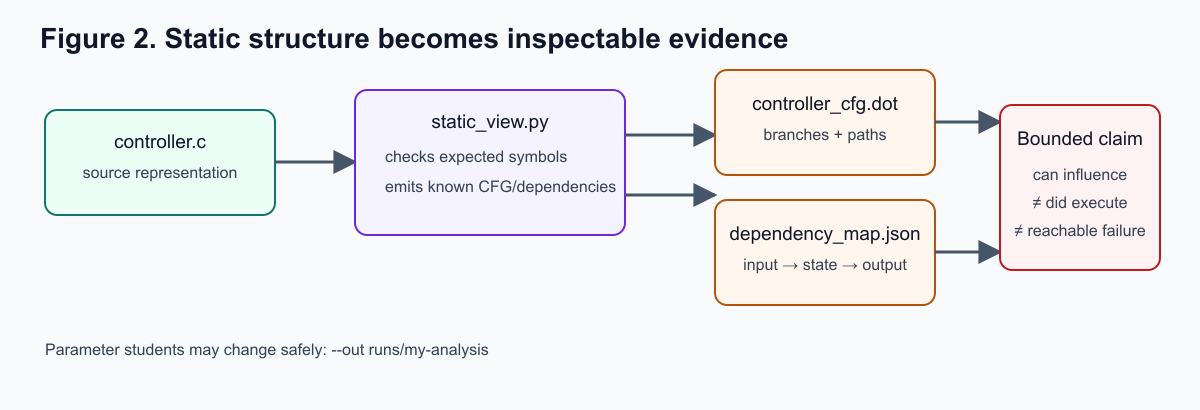
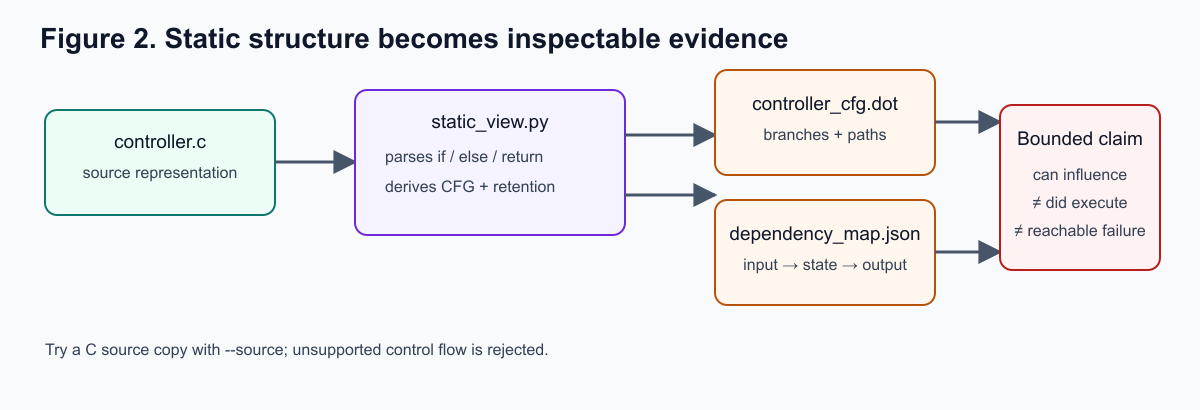
Derive HW2 teaching CFG from controller source (#7)

Changed region(s): [[0.0308, 0.8195, 0.4625, 0.878], [0.3083, 0.3512, 0.4933, 0.4098], [0.3083, 0.439, 0.5242, 0.4683]]

diff --git a/labs/cps-tank/hw2/static_view.py b/labs/cps-tank/hw2/static_view.py
@@ -1,61 +1,301 @@
 #!/usr/bin/env python3
-"""Generate a small CFG and dependency view from the teaching controller."""
+"""Derive a source-based CFG for the teaching controller's supported C subset.
+
+The analyzer handles blocks, if/else, simple statements, and returns. It
+rejects unsupported control constructs rather than emitting a misleading
+diagram. It does not preprocess macros or analyze arbitrary C programs.
+"""
 
 from __future__ import annotations
 
 import argparse
+import hashlib
 import json
 import pathlib
+import re
+from dataclasses import dataclass
+from typing import Optional
 
 HERE = pathlib.Path(__file__).resolve().parent
-
-DOT = """digraph controller {
-  rankdir=TB;
-  node [shape=box];
-  input [label="reported_level_pct"];
-  low [shape=diamond,label="reported < LOW?"];
-  high [shape=diamond,label="reported > HIGH?"];
-  open [label="inlet_valve_open = true"];
-  close [label="inlet_valve_open = false"];
-  hold [label="retain prior valve state"];
-  output [label="publish inlet_valve_open"];
-  input -> low;
-  low -> open [label="yes"];
-  low -> high [label="no"];
-  high -> close [label="yes"];
-  high -> hold [label="no"];
-  open -> output;
-  close -> output;
-  hold -> output;
-}
-"""
-
-DEPENDENCY = {
-    "external_observation": "reported_level_pct",
-    "control_dependencies": ["reported_level_pct < LOW_LEVEL_PCT", "reported_level_pct > HIGH_LEVEL_PCT"],
-    "retained_state": "inlet_valve_open",
-    "actuator_decision": "inlet_valve_open",
-    "assumption_to_question": "the reported observation faithfully represents the process state",
-    "student_prompt": "Explain a path that can keep the inlet open even while true tank level rises.",
-}
+FUNCTION = re.compile(r"\b(?:bool|_Bool)\s+controller_step\s*\((.*?)\)\s*\{", re.S)
+BRACES = re.compile(
+    r'/\*.*?\*/|//[^\n]*|"(?:\\.|[^"\\])*"|\'(?:\\.|[^\'\\])*\'|[{}]',
+    re.S,
+)
+LEXEME = re.compile(
+    r'\s+|/\*.*?\*/|//[^\n]*|"(?:\\.|[^"\\])*"|\'(?:\\.|[^\'\\])*\''
+    r'|->|==|!=|<=|>=|&&|\|\||\+\+|--|[A-Za-z_]\w*'
+    r'|\d+(?:\.\d+)?(?:[eE][+-]?\d+)?[fFlLuU]*'
+    r'|[{}();=<>+\-*/!,.\[\]&|?]',
+    re.S,
+)
+UNSUPPORTED = {"for", "while", "do", "switch", "goto", "break", "continue"}
 
 
-def generate(output: pathlib.Path) -> pathlib.Path:
-    source = (HERE / "representations" / "controller.c").read_text(encoding="utf-8")
-    for token in ("reported_level_pct", "LOW_LEVEL_PCT", "HIGH_LEVEL_PCT", "inlet_valve_open"):
-        if token not in source:
-            raise ValueError(f"controller.c no longer contains required token {token}")
+@dataclass(frozen=True)
+class Token:
+    text: str
+    start: int
+    end: int
+
+
+@dataclass(frozen=True)
+class Statement:
+    kind: str
+    text: str
+    yes: tuple["Statement", ...] = ()
+    no: tuple["Statement", ...] = ()
+
+
+def function_parts(source: str) -> tuple[str, str]:
+    match = FUNCTION.search(source)
+    if match is None:
+        raise ValueError("expected a bool controller_step(...) definition")
+    opening = match.end() - 1
+    depth = 0
+    for item in BRACES.finditer(source, opening):
+        if item.group() == "{":
+            depth += 1
+        elif item.group() == "}":
+            depth -= 1
+            if depth == 0:
+                return match.group(1), source[opening + 1:item.start()]
+    raise ValueError("controller_step has an unclosed body")
+
+
+def tokenize(body: str) -> list[Token]:
+    tokens = []
+    position = 0
+    while position < len(body):
+        match = LEXEME.match(body, position)
+        if match is None:
+            raise ValueError("unsupported C token near " + repr(body[position:position + 24]))
+        word = match.group()
+        if not word.isspace() and not word.startswith(("/*", "//")):
+            tokens.append(Token(word, position, match.end()))
+        position = match.end()
+    return tokens
+
+
+class Parser:
+    def __init__(self, body: str):
+        self.body = body
+        self.tokens = tokenize(body)
+        self.index = 0
+
+    def peek(self) -> str:
+        return self.tokens[self.index].text if self.index < len(self.tokens) else ""
+
+    def take(self, expected: Optional[str] = None) -> Token:
+        if self.index >= len(self.tokens):
+            raise ValueError("unexpected end of controller_step")
+        token = self.tokens[self.index]
+        if expected is not None and token.text != expected:
+            raise ValueError("expected " + repr(expected) + ", found " + repr(token.text))
+        self.index += 1
+        return token
+
+    def enclosed_condition(self) -> str:
+        self.take("(")
+        start = self.index
+        depth = 1
+        while depth:
+            word = self.take().text
+            depth += (word == "(") - (word == ")")
+        end = self.index - 1
+        if start == end:
+            raise ValueError("empty branch condition")
+        if any(token.text in {"&&", "||", "?"} for token in self.tokens[start:end]):
+            raise ValueError("compound conditions are outside the supported CFG subset")
+        return self.body[self.tokens[start].start:self.tokens[end - 1].end].strip()
+
+    def simple_expression(self) -> str:
+        start = self.index
+        depth = 0
+        while True:
+            word = self.take().text
+            if word in {"(", "["}:
+                depth += 1
+            elif word in {")", "]"}:
+                depth -= 1
+            elif word == ";" and depth == 0:
+                break
+            elif word in {"{", "}"}:
+                raise ValueError("unsupported compound statement")
+        end = self.index - 1
+        if start == end:
+            raise ValueError("empty C statement")
+        if any(token.text in {"&&", "||", "?"} for token in self.tokens[start:end]):
+            raise ValueError("compound expressions are outside the supported CFG subset")
+        return self.body[self.tokens[start].start:self.tokens[end - 1].end].strip()
+
+    def branch(self) -> tuple[Statement, ...]:
+        if self.peek() == "{":
+            self.take("{")
+            result = self.sequence("}")
+            self.take("}")
+            return result
+        return (self.statement(),)
+
+    def statement(self) -> Statement:
+        word = self.peek()
+        if word in UNSUPPORTED:
+            raise ValueError(word + " is outside the supported CFG subset")
+        if word == "if":
+            self.take("if")
+            condition = self.enclosed_condition()
+            yes = self.branch()
+            no = ()
+            if self.peek() == "else":
+                self.take("else")
+                no = self.branch()
+            return Statement("if", condition, yes, no)
+        if word == "else":
+            raise ValueError("else without if")
+        if word == "return":
+            self.take("return")
+            return Statement("return", self.simple_expression())
+        return Statement("expression", self.simple_expression())
+
+    def sequence(self, until: str = "") -> tuple[Statement, ...]:
+        result = []
+        while self.peek() != until:
+            if not self.peek():
+                if until:
+                    raise ValueError("unclosed C block")
+                break
+            if self.peek() == "{":
+                self.take("{")
+                result.extend(self.sequence("}"))
+                self.take("}")
+            else:
+                result.append(self.statement())
+        return tuple(result)
+
+
+def walk(statements: tuple[Statement, ...]):
+    for statement in statements:
+        yield statement
+        if statement.kind == "if":
+            yield from walk(statement.yes)
+            yield from walk(statement.no)
+
+
+def return_write_states(
+    statements: tuple[Statement, ...], field: str, states: set[bool], found: set[bool]
+) -> set[bool]:
+    for statement in statements:
+        if statement.kind == "if":
+            yes = return_write_states(statement.yes, field, set(states), found)
+            no = return_write_states(statement.no, field, set(states), found) if statement.no else set(states)
+            states = yes | no
+        elif statement.kind == "return":
+            found.update(states)
+            states = set()
+        elif re.search(r"\bstate\s*->\s*" + re.escape(field) + r"\s*=(?!=)", statement.text):
+            states = {True for _ in states}
+    return states
+
+
+def analyze_source(source: str) -> tuple[str, dict]:
+    parameters, body = function_parts(source)
+    statements = Parser(body).sequence()
+    flat = list(walk(statements))
+    conditions = [item.text for item in flat if item.kind == "if"]
+    returns = [item.text for item in flat if item.kind == "return"]
+    if not conditions or not returns:
+        raise ValueError("controller_step needs a branch and a return")
+    fields = {
+        field for expression in returns
+        for field in re.findall(r"\bstate\s*->\s*([A-Za-z_]\w*)", expression)
+    }
+    if len(fields) != 1:
+        raise ValueError("expected one state field in controller return")
+    field = fields.pop()
+    parameter_names = [
+        re.findall(r"[A-Za-z_]\w*", item)[-1]
+        for item in parameters.split(",") if re.findall(r"[A-Za-z_]\w*", item)
+    ]
+    observation = next(
+        (name for name in parameter_names if name != "state"
+         and any(re.search(r"\b" + re.escape(name) + r"\b", condition) for condition in conditions)),
+        None,
+    )
+    if observation is None:
+        raise ValueError("no function parameter controls a branch")
+
+    nodes: list[tuple[str, str, str]] = []
+    edges: list[tuple[str, str, str]] = []
+
+    def node(label: str, shape: str = "box") -> str:
+        identifier = "n" + str(len(nodes))
+        nodes.append((identifier, label, shape))
+        return identifier
+
+    def build(sequence: tuple[Statement, ...], successor: str) -> str:
+        current = successor
+        for item in reversed(sequence):
+            if item.kind == "if":
+                decision = node(item.text + "?", "diamond")
+                yes = build(item.yes, current) if item.yes else current
+                no = build(item.no, current) if item.no else current
+                edges.extend([(decision, yes, "true"), (decision, no, "false")])
+                current = decision
+            else:
+                label = ("return " if item.kind == "return" else "") + item.text + ";"
+                step = node(label)
+                edges.append((step, exit_node if item.kind == "return" else current, ""))
+                current = step
+        return current
+
+    exit_node = node("exit", "oval")
+    first = build(statements, exit_node)
+    entry = node("entry", "oval")
+    edges.append((entry, first, ""))
+    lines = ["digraph controller_step {", "  rankdir=TB;", "  node [shape=box];"]
+    for identifier, label, shape in nodes:
+        lines.append("  " + identifier + " [label=" + json.dumps(label) + ", shape=" + shape + "];")
+    for source_id, target_id, label in edges:
+        suffix = " [label=" + json.dumps(label) + "]" if label else ""
+        lines.append("  " + source_id + " -> " + target_id + suffix + ";")
+    lines.append("}")
+
+    return_states: set[bool] = set()
+    return_write_states(statements, field, {False}, return_states)
+    dependency = {
+        "analysis_method": "source-derived structured CFG for controller_step",
+        "source_sha256": hashlib.sha256(source.encode("utf-8")).hexdigest(),
+        "external_observation": observation,
+        "control_dependencies": conditions,
+        "retained_state": field if False in return_states else None,
+        "actuator_decision": field,
+        "assumption_to_question": "the reported observation faithfully represents the process state",
+        "student_prompt": "Explain a path that can keep the inlet open even while true tank level rises.",
+    }
+    return "\n".join(lines) + "\n", dependency
+
+
+def generate(output: pathlib.Path, source_path: Optional[pathlib.Path] = None) -> pathlib.Path:
+    source_file = source_path or HERE / "representations" / "controller.c"
+    dot, dependency = analyze_source(source_file.read_text(encoding="utf-8"))
     output.mkdir(parents=True, exist_ok=True)
-    (output / "controller_cfg.dot").write_text(DOT, encoding="utf-8")
-    (output / "dependency_map.json").write_text(json.dumps(DEPENDENCY, indent=2) + "\n", encoding="utf-8")
+    (output / "controller_cfg.dot").write_text(dot, encoding="utf-8")
+    (output / "dependency_map.json").write_text(
+        json.dumps(dependency, indent=2) + "\n", encoding="utf-8"
+    )
     return output
 
 
 def main() -> int:
     parser = argparse.ArgumentParser(description=__doc__)
     parser.add_argument("--out", type=pathlib.Path, default=HERE / "runs" / "analysis")
+    parser.add_argument(
+        "--source", type=pathlib.Path,
+        default=HERE / "representations" / "controller.c",
+        help="C file to analyze (use a copy; this never changes the live PLC)",
+    )
     args = parser.parse_args()
-    print(generate(args.out))
+    print(generate(args.out, args.source))
     return 0
 
 

diff --git a/labs/cps-tank/hw2/README.md b/labs/cps-tank/hw2/README.md
@@ -262,12 +262,16 @@ fallback. Preflight validates but does not install, start, or modify anything.
 
 ![Static analysis artifact pipeline](figures/02-static-analysis.svg)
 
-`analyze.sh` forwards to `static_view.py`, which reads
-`representations/controller.c`, checks the expected symbols, and writes
-`controller_cfg.dot` and `dependency_map.json`. Try
-`./analyze.sh --out runs/my-analysis`. This teaching extractor exposes real
-control-flow and dependency questions, but it is not a general C analyzer and
-cannot establish execution or physical reachability.
+`analyze.sh` forwards to `static_view.py`, which parses the supported
+`controller_step` C statements and derives the branch edges and retained-state
+dependency from the source. It writes `controller_cfg.dot` and
+`dependency_map.json`. Try `./analyze.sh --out runs/my-analysis`. To test a
+source edit without changing the live PLC, analyze a *copy* with
+`./analyze.sh --source /path/to/controller-copy.c --out runs/edited-analysis`;
+compare its DOT and JSON with the original. Unsupported control constructs
+fail closed instead of producing a canned graph. This bounded teaching
+analyzer is not a general C compiler analysis, and a feasible path does not
+establish execution or physical reachability.
 
 ### 3. One OpenPLC/Modbus cycle
 

diff --git a/labs/cps-tank/hw2/TOOLS.md b/labs/cps-tank/hw2/TOOLS.md
@@ -6,7 +6,7 @@ transport, fixed OpenPLC endpoint, and network tools. It reports the expiry
 value but does not enforce the course resource deadline. Students do not need
 to compile C or install dependencies.
 
-`analyze.sh` emits a small CFG and dependency map from the C teaching artifact. It exposes structure; you must interpret the observation-to-actuator path.
+`analyze.sh` parses the supported `controller_step` C subset and derives a CFG and retained-state dependency map from the source. It rejects unsupported control constructs; it is not a general C analyzer. You must still interpret the observation-to-actuator path.
 
 `verify_representations.sh` executes six stateful sequences through the reference, existing Python controller, compiled C, and supported ST model. Passing establishes bounded agreement on those sequences, not universal equivalence.
 
